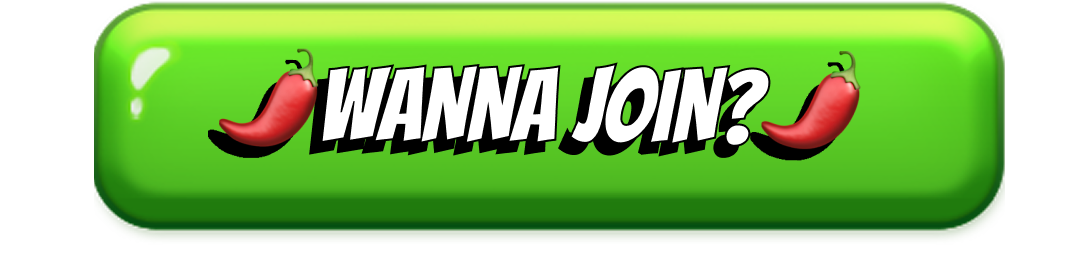
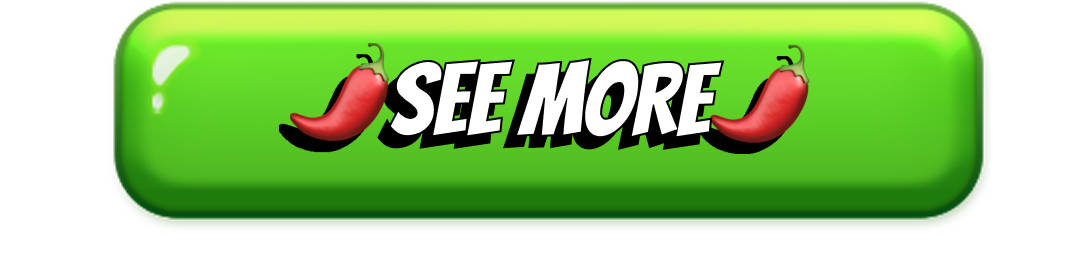
Corect audoi plying

Changed region(s): [[0.0611, 0.0, 0.9472, 0.8722], [0.1833, 0.1504, 0.7944, 0.6015]]

diff --git a/index.html b/index.html
@@ -189,6 +189,7 @@
       pointer-events: none;
     }
 
+    /* Фінальний контейнер */
     #final-cta-container {
       display: none;
       position: absolute;
@@ -197,19 +198,76 @@
       width: 100%;
       height: 100%;
       z-index: 6;
-      background: rgba(0, 0, 0, 0.35);
+      background: rgba(0, 0, 0, 0); /* Прозорий фон на початку */
+      transition: background 0.6s ease-in-out; /* Плавне затемнення */
       flex-direction: column;
       justify-content: center;
       align-items: center;
       pointer-events: auto;
+      gap: 20px;
     }
 
+    #final-cta-container.darkened {
+      background: rgba(0, 0, 0, 0.65);
+    }
+
+    /* Бабл */
+    .bubble-img {
+      position: absolute;
+      width: 38%;
+      max-width: 210px;
+      height: auto;
+      opacity: 0;
+      transform: scale(0.3);
+      pointer-events: none;
+      left: 15%;
+      top: 50%;
+      z-index: 7;
+    }
+
+    .bubble-appear {
+      animation: bubblePop 0.5s cubic-bezier(0.175, 0.885, 0.32, 1) forwards;
+    }
+
+    @keyframes bubblePop {
+      0% {
+        opacity: 0;
+        transform: scale(0.3) translateY(20px);
+      }
+      100% {
+        opacity: 1;
+        transform: scale(1) translateY(0);
+      }
+    }
+
+    /* Кнопка */
     .cta-btn-img {
-      width: 75%;
-      max-width: 300px;
+      position: absolute;
+      width: 95%;
+      max-width: 350px;
       height: auto;
       cursor: pointer;
-      animation: pulseCTA 0.9s infinite alternate;
+      opacity: 0;
+      transform: scale(0.8);
+      left: 15%;
+      top: 40%;
+      z-index: 8; 
+    }
+
+    .cta-appear {
+      animation: ctaPop 0.5s cubic-bezier(0.175, 0.885, 0.32, 1.275) forwards,
+                 pulseCTA 0.9s infinite alternate 0.5s;
+    }
+
+    @keyframes ctaPop {
+      0% {
+        opacity: 0;
+        transform: scale(0.8);
+      }
+      100% {
+        opacity: 1;
+        transform: scale(1);
+      }
     }
 
     @keyframes pulseCTA {
@@ -224,7 +282,6 @@
 </head>
 <body>
 
-  <!-- HTML5 аудіо елементи -->
   <audio id="bg-music" src="assets/bg_music.mp3" loop preload="auto"></audio>
   <audio id="door-sound" src="assets/door_open.mp3" loop preload="auto"></audio>
 
@@ -255,6 +312,7 @@
     </div>
 
     <div id="final-cta-container">
+      <img id="bubble-img" src="assets/bubble.png" alt="Bubble" class="bubble-img">
       <img id="cta-btn" src="assets/cta_button.png" alt="Play Now" class="cta-btn-img">
     </div>
   </div>
@@ -266,6 +324,7 @@
     const handIcon = document.getElementById('hand-icon');
     
     const finalCTA = document.getElementById('final-cta-container');
+    const bubbleImg = document.getElementById('bubble-img');
     const ctaBtn = document.getElementById('cta-btn');
     
     const doorContainer = document.getElementById('door-container');
@@ -285,6 +344,7 @@
 
     bgVideo.pause();
 
+    // Розігрів та розблокування аудіо на iOS через єдиний жест
     function warmUpAudio() {
       doorSound.muted = false;
       doorSound.play().then(() => {
@@ -301,7 +361,7 @@
       currentStep = 2;
 
       bgVideo.play().catch(() => {});
-      warmUpAudio(); // Розігріваємо і запускаємо музику
+      warmUpAudio();
 
       step1UI.classList.add('hidden');
       step2UI.style.display = 'flex';
@@ -387,7 +447,6 @@
       currentStep = 3;
       isDragging = false;
 
-      // Зупинка звуку дверей при завершенні
       doorSound.pause();
       doorSound.currentTime = 0;
 
@@ -399,6 +458,14 @@
 
       setTimeout(() => {
         finalCTA.style.display = 'flex';
+        
+        bubbleImg.classList.add('bubble-appear');
+
+        setTimeout(() => {
+          finalCTA.classList.add('darkened');
+          ctaBtn.classList.add('cta-appear');
+        }, 700);
+
       }, 300);
     }
 
